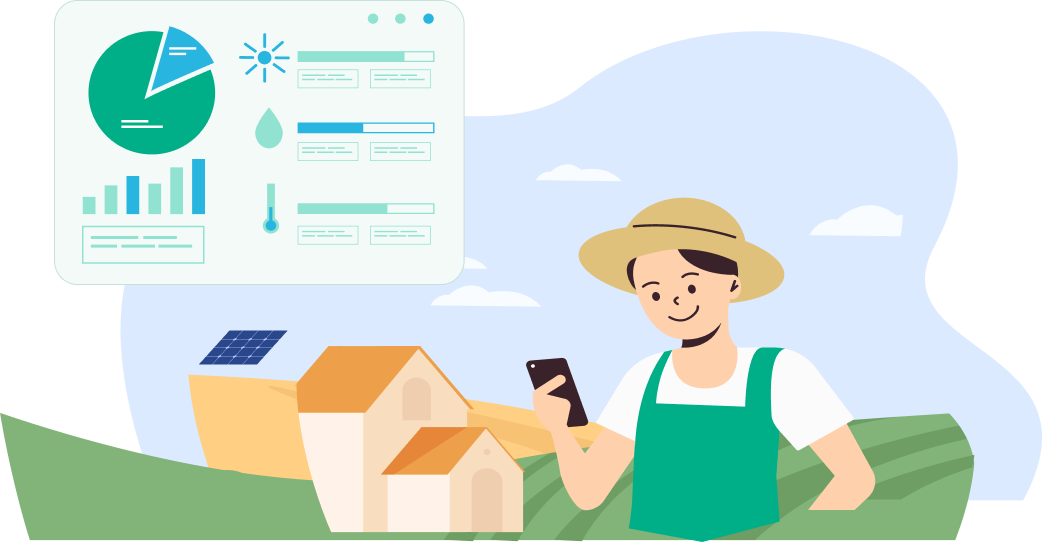
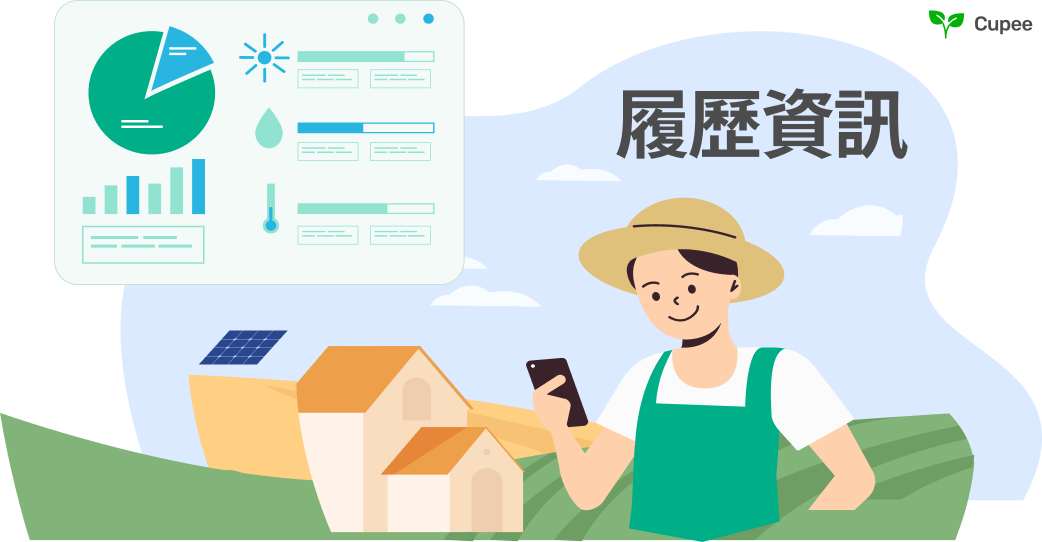
履歷資訊

Changed region(s): [[0.5835, 0.1476, 0.8906, 0.2952], [0.8906, 0.0, 1.0, 0.059]]

diff --git a/CSS/trace_info_styles.css b/CSS/trace_info_styles.css
@@ -1,0 +1,246 @@
+@import url('https://fonts.googleapis.com/css2?family=Poppins:wght@400;500;600&display=swap');
+
+body {
+  font-family: 'Poppins', sans-serif;
+  margin: 0;
+  padding: 0;
+}
+
+nav {
+  display: flex;
+  justify-content: space-between;
+  align-items: center;
+  padding: 10px;
+  max-width: 1200px;
+  margin: 0 auto;
+}
+
+.logo a {
+  display: block;
+}
+
+.logo img {
+  height: 40px;
+}
+
+.nav-links ul {
+  list-style: none;
+  margin: 0;
+  padding: 0;
+  display: flex;
+}
+
+.nav-links li {
+  margin: 0 15px;
+}
+
+.nav-links a {
+  color: #333;
+  text-decoration: none;
+  font-weight: 500;
+  transition: color 0.3s;
+  position: relative;
+  padding-bottom: 5px;
+}
+
+.nav-links a:before {
+  content: "";
+  position: absolute;
+  bottom: 0;
+  left: 0;
+  width: 0;
+  height: 2px;
+  background-color: #4CAF50;
+  transition: width 0.3s;
+}
+
+.nav-links a:hover:before {
+  width: 100%;
+}
+
+.nav-icons {
+  display: flex;
+  align-items: center;
+}
+
+.search-icon {
+  color: #333;
+  margin-right: 20px;
+  font-size: 18px;
+  transition: color 0.3s;
+  cursor: pointer;
+}
+
+.search-icon:hover {
+  color: #4CAF50;
+}
+
+.search-form {
+  display: none;
+  position: absolute;
+  top: 100%;
+  right: 0;
+  background-color: #fff;
+  box-shadow: 0 2px 5px rgba(0, 0, 0, 0.1);
+  border-radius: 20px;
+  overflow: hidden;
+  animation: popUp 0.3s ease;
+}
+
+@keyframes popUp {
+  0% {
+    transform: scale(0);
+    opacity: 0;
+  }
+  100% {
+    transform: scale(1);
+    opacity: 1;
+  }
+}
+
+.search-input {
+  padding: 5px 10px;
+  border: none;
+  outline: none;
+  margin-right: 20px;
+}
+
+.login-btn {
+  background-color: #4CAF50;
+  color: #fff;
+  padding: 10px 20px;
+  text-decoration: none;
+  border-radius: 20px;
+  transition: background-color 0.3s;
+  font-weight: 500;
+}
+
+.login-btn:hover {
+  background-color: #45a049;
+}
+
+main {
+  padding: 20px;
+  max-width: 1200px;
+  margin: 0 auto;
+}
+
+footer {
+  background-color: #333;
+  color: #fff;
+  text-align: center;
+  padding: 10px;
+}
+
+/* 介紹區塊 */
+.intro-section {
+  text-align: center;
+  margin-bottom: 40px;
+}
+
+.intro-section h2 {
+  color: #333;
+  font-weight: 600;
+}
+
+.intro-section p {
+  color: #666;
+}
+
+/* 農場基礎資訊 */
+.farm-info-section p {
+  margin-bottom: 10px;
+}
+
+/* 時間軸 */
+.timeline-section {
+  position: relative;
+  padding-left: 30px;
+}
+
+.timeline-section:before {
+  content: '';
+  position: absolute;
+  top: 0;
+  left: 0;
+  height: 100%;
+  width: 2px;
+  background-color: #ccc;
+}
+
+.timeline-item {
+  position: relative;
+  padding: 15px 20px;
+  background-color: #f4f4f4;
+  border-radius: 5px;
+  margin-bottom: 30px;
+}
+
+.timeline-item:before {
+  content: '';
+  position: absolute;
+  top: 20px;
+  left: -30px;
+  width: 20px;
+  height: 20px;
+  background-color: #fff;
+  border: 2px solid #ccc;
+  border-radius: 50%;
+}
+
+/* 記錄 */
+.record-item {
+  background-color: #f4f4f4;
+  padding: 15px 20px;
+  border-radius: 5px;
+  margin-bottom: 20px;
+}
+
+.record-item h5 {
+  margin-bottom: 10px;
+  color: #333;
+}
+
+.record-item p {
+  color: #666;
+}
+
+.banner {
+  text-align: center;
+  margin-bottom: 40px;
+}
+
+.banner img {
+  max-width: 100%;
+  height: auto;
+  border-radius: 5px;
+}
+
+/* 響應式設計 */
+@media (max-width: 768px) {
+  nav {
+    flex-direction: column;
+    align-items: flex-start;
+  }
+
+  .nav-links ul {
+    flex-direction: column;
+    margin-top: 10px;
+  }
+
+  .nav-links li {
+    margin: 10px 0;
+  }
+
+  .nav-icons {
+    margin-top: 10px;
+  }
+
+  .search-form {
+    top: auto;
+    bottom: -60px;
+    left: 0;
+    right: auto;
+    border-radius: 0 0 20px 20px;
+  }
+}

diff --git a/PAGES/trace_info.html b/PAGES/trace_info.html
@@ -1,0 +1,87 @@
+<!DOCTYPE html>
+<html lang="en">
+
+<head>
+    <meta charset="UTF-8">
+    <meta name="viewport" content="width=device-width, initial-scale=1.0">
+    <title>農場查詢頁面</title>
+    <link rel="stylesheet" href="https://stackpath.bootstrapcdn.com/bootstrap/4.5.2/css/bootstrap.min.css">
+    <link rel="stylesheet" href="\CSS\trace_info_styles.css">
+</head>
+
+<body>
+    <!-- 最上方導引列 -->
+    <header>
+        <nav>
+            <div class="logo">
+                <a href="#"><img src="\IMG\icon.png" alt="Logo"></a>
+            </div>
+            <div class="nav-links">
+                <ul>
+                    <li><a href="\PAGES\Product.html">最新上架</a></li>
+                    <li><a href="\PAGES\search.html">履歷查詢</a></li>
+                    <li><a href="#">關於我們</a></li>
+                </ul>
+            </div>
+            <div class="nav-icons">
+                <a href="#" class="login-btn">登入</a>
+            </div>
+        </nav>
+    </header>
+
+    <div class="container my-5">
+        <div class="row">
+            <div class="col-md-8 offset-md-2">
+                <div class="banner">
+                    <img src="\IMG\main_trace.png"  alt="Banner Image">
+                </div>
+                <div class="farm-info-section mb-4">
+                    <h3>農場基礎資訊</h3>
+                    <p>農場: 台大實驗林</p>
+                    <p>城市: 南投縣</p>
+                    <p>城鎮: 竹山鎮</p>
+                    <p>地址: 南山路一段12號</p>
+                    <p>電話: 049 2642181</p>
+                </div>
+                <div class="timeline-section mb-4">
+                    <h3>時間軸</h3>
+                    <div id="timeline"></div>
+                </div>
+                <div class="records-section">
+                    <h3>記錄</h3>
+                    <div id="records"></div>
+                </div>
+            </div>
+        </div>
+    </div>
+
+    <script src="https://code.jquery.com/jquery-3.5.1.slim.min.js"></script>
+    <script>
+        // 模擬的記錄資料
+        const records = [
+            { date: '2020-06-10', description: '春季作業' },
+            { date: '2020-06-08', description: '夏季' },
+            // 添加更多記錄...
+        ];
+
+        // 渲染時間軸
+        records.forEach(record => {
+            const item = $('<div>').addClass('timeline-item').text(record.date);
+            $('#timeline').append(item);
+        });
+
+        // 渲染記錄
+        records.forEach(record => {
+            const item = $('<div>').addClass('record-item').html(`
+        <h5>${record.date}</h5>
+        <p>${record.description}</p>
+      `);
+            $('#records').append(item);
+        });
+    </script>
+</body>
+<footer>
+    <p>&copy; 2023 Cupee 小黃瓜皮股份有限公司</p>
+</footer>
+
+</html>

diff --git a/SCRIPT/trace_info.js b/SCRIPT/trace_info.js
@@ -1,0 +1,21 @@
+// 模擬的記錄資料
+const records = [
+    { date: '2020-06-10', description: '春季作業' },
+    { date: '2020-06-08', description: '夏季' },
+    // 添加更多記錄...
+  ];
+  
+  // 渲染時間軸
+  records.forEach(record => {
+    const item = $('<div>').addClass('timeline-item').text(record.date);
+    $('#timeline').append(item);
+  });
+  
+  // 渲染記錄
+  records.forEach(record => {
+    const item = $('<div>').addClass('record-item').html(`
+      <h5>${record.date}</h5>
+      <p>${record.description}</p>
+    `);
+    $('#records').append(item);
+  });

diff --git a/PAGES/Product.html b/PAGES/Product.html
@@ -42,7 +42,7 @@
             <div class="ad-banner">
                 <img src="\IMG\advertisement\adv1.png" alt="廣告橫幅">
             </div>
-            <div class="product-grid">
+            <div id="product-grid">
                 <div class="product-item">
                     <img src="product1.jpg" alt="產品1">
                     <h4>產品名稱 1</h4>

diff --git a/PAGES/search.html b/PAGES/search.html
@@ -53,9 +53,6 @@
                     <img src="\IMG\Search\Search_main.png" alt="Traceability Image">
                 </div>
             </div>
-            <div class="traceability-result">
-                <!-- 這裡將顯示查詢結果 -->
-            </div>
         </article>
 
         <!-- 推薦農場區塊 -->
